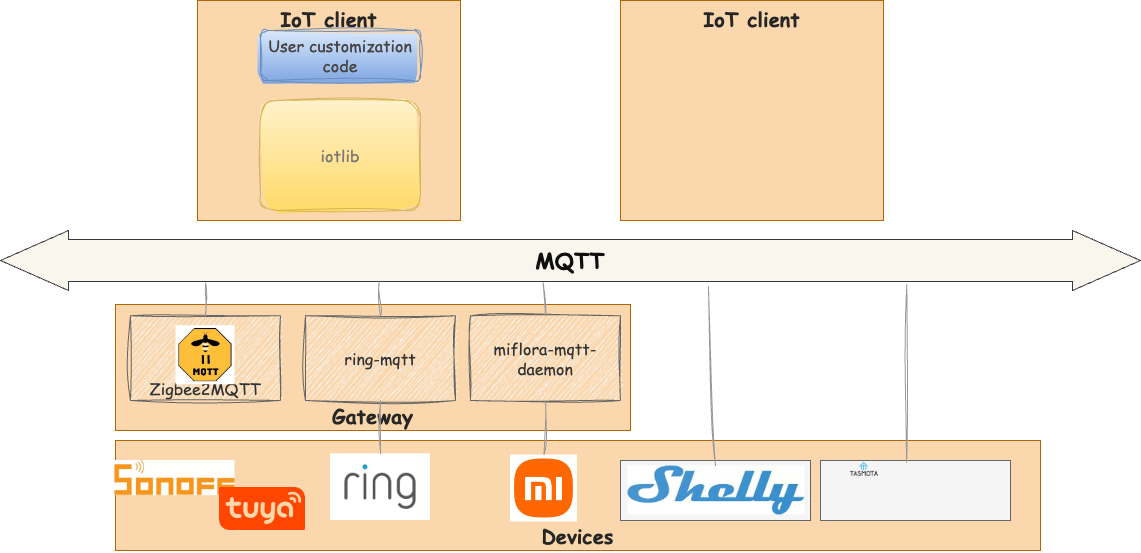
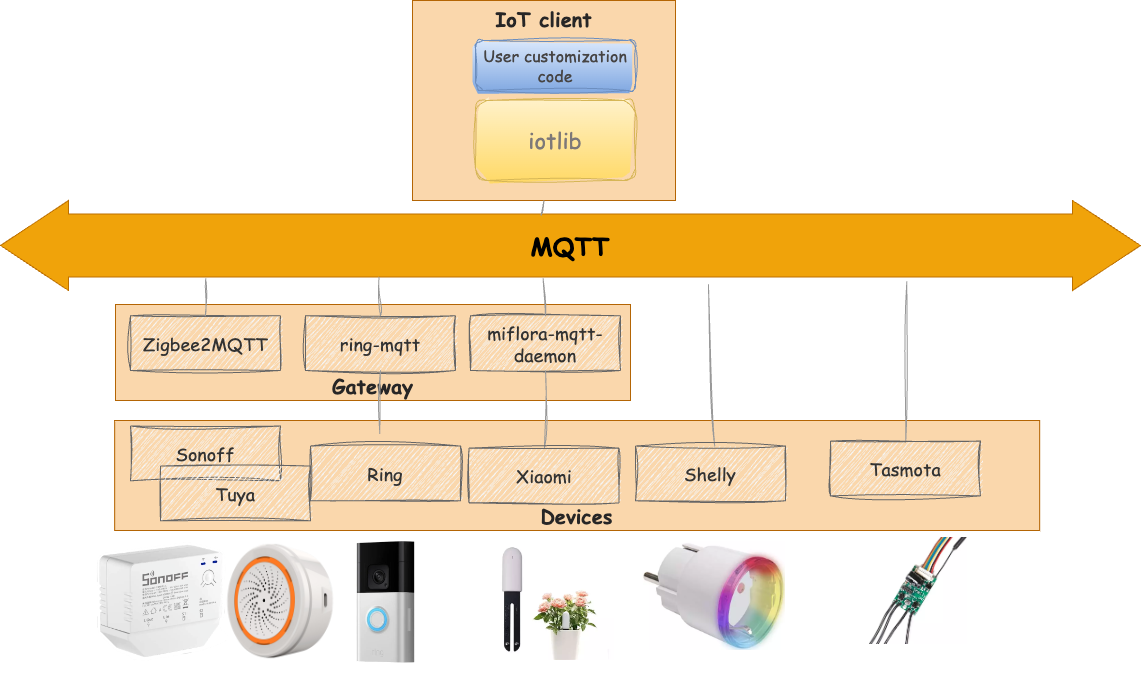
Update iotlib version to 2.1.0

diff --git a/iotlib/__init__.py b/iotlib/__init__.py
@@ -5,7 +5,7 @@ This is the initialization module for the iotlib package.
 
 """
 
-__version__ = "2.0.0"
+__version__ = "2.1.0"
 
 import iotlib.bridge
 import iotlib.client

diff --git a/README.md b/README.md
@@ -5,13 +5,16 @@
 
 ## Description
 
-iotlib is a versatile library built upon Paho™ MQTT, designed to streamline the development of IoT applications.
+**iotlib** is a versatile python library built upon Paho™ MQTT, designed to streamline the development of IoT applications.
+
+![Alt text](doc/src/_images/landscape.png)
+
 
 Key features includes:
 
 - Offers a **programmatic alternative** to traditional home automation platforms such as openHAB, Home Assistant, and Jeedom, providing more flexibility and control.
 - A robust communication bridge leveraging the **MQTT protocol**, ensuring reliable data transfer between devices.
-- **Protocol-agnostic** design, with support for Zigbee, Shelly MQTT, Tasmota MQTT, and Homie, offering flexibility in device integration.
+- Designed with a **protocol-agnostic** approach, our system supports both direct device integration over MQTT (such as Shelly or Tasmota devices) and gateway integration (via platforms like Zigbee2MQTT, ring to MQTT or miflora to MQTT) . This offers enhanced flexibility in integrating various devices.
 - Comprehensive support for the creation and management of **virtual devices**, simplifying the integration between devices models, providers et protocols.
 - Implementation of the **Observer design pattern**, enabling automatic triggering of actions on switches based on sensor value changes.
 

diff --git a/CHANGELOG.md b/CHANGELOG.md
@@ -1,0 +1,20 @@
+# Changelog
+
+## [2.1.0] - 2024-04-10
+
+### Added
+- Enhanced documentation with Sphinx auto-generated content, detailed concepts, and user guide.
+
+### Fixed
+- Addressed various bugs to improve system stability and performance.
+
+## [2.0.0] - 2024-02-26
+
+### Changed
+- Refactored the library to support Zigbee2MQTT, enhancing device integration capabilities.
+
+### Removed
+- Temporary removed support for the following codecs: Tasmota, Shelly, ring-mqtt, miflora-mqtt. 
+
+### Deprecated
+- Deprecated `iotlib.client.MQTTClientHelper` class. Please refer to the updated documentation for the new usage guidelines.

diff --git a/doc/src/introduction.md b/doc/src/introduction.md
@@ -4,7 +4,7 @@
 
 ## Description
 
-**iotlib** is a versatile library built upon Paho™ MQTT, designed to streamline the development of IoT applications.
+**iotlib** is a versatile python library built upon Paho™ MQTT, designed to streamline the development of IoT applications.
 
 ![Alt text](_images/landscape.png)
 
